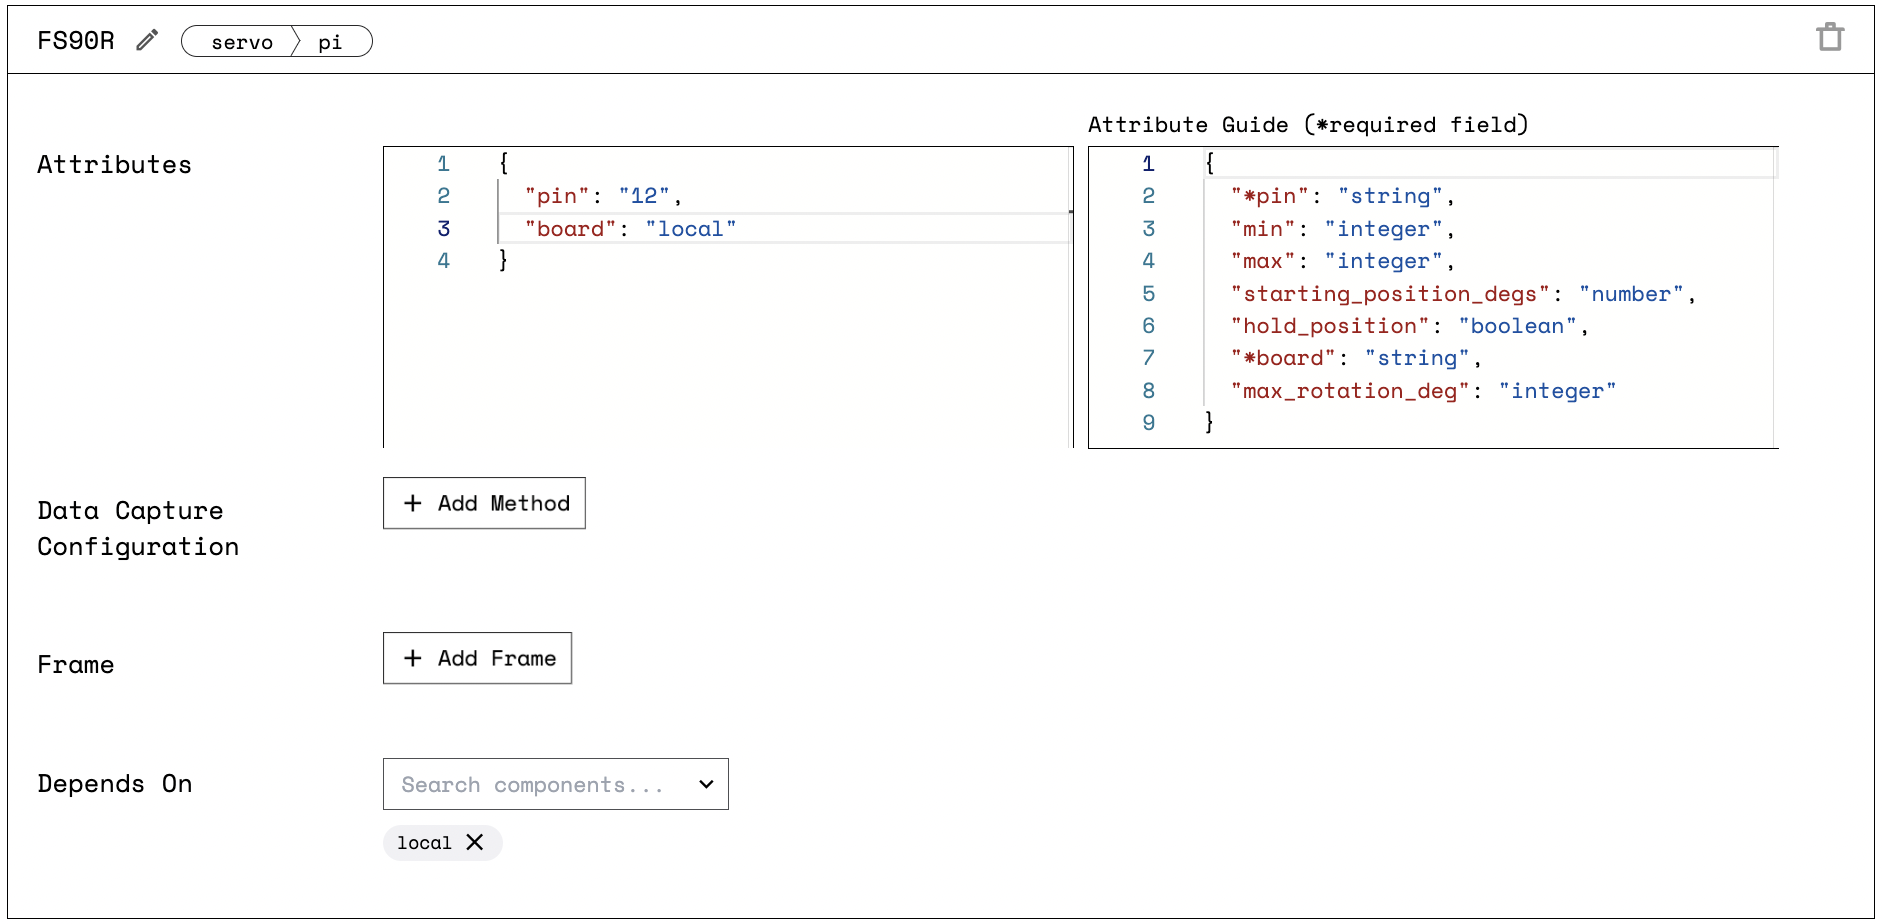
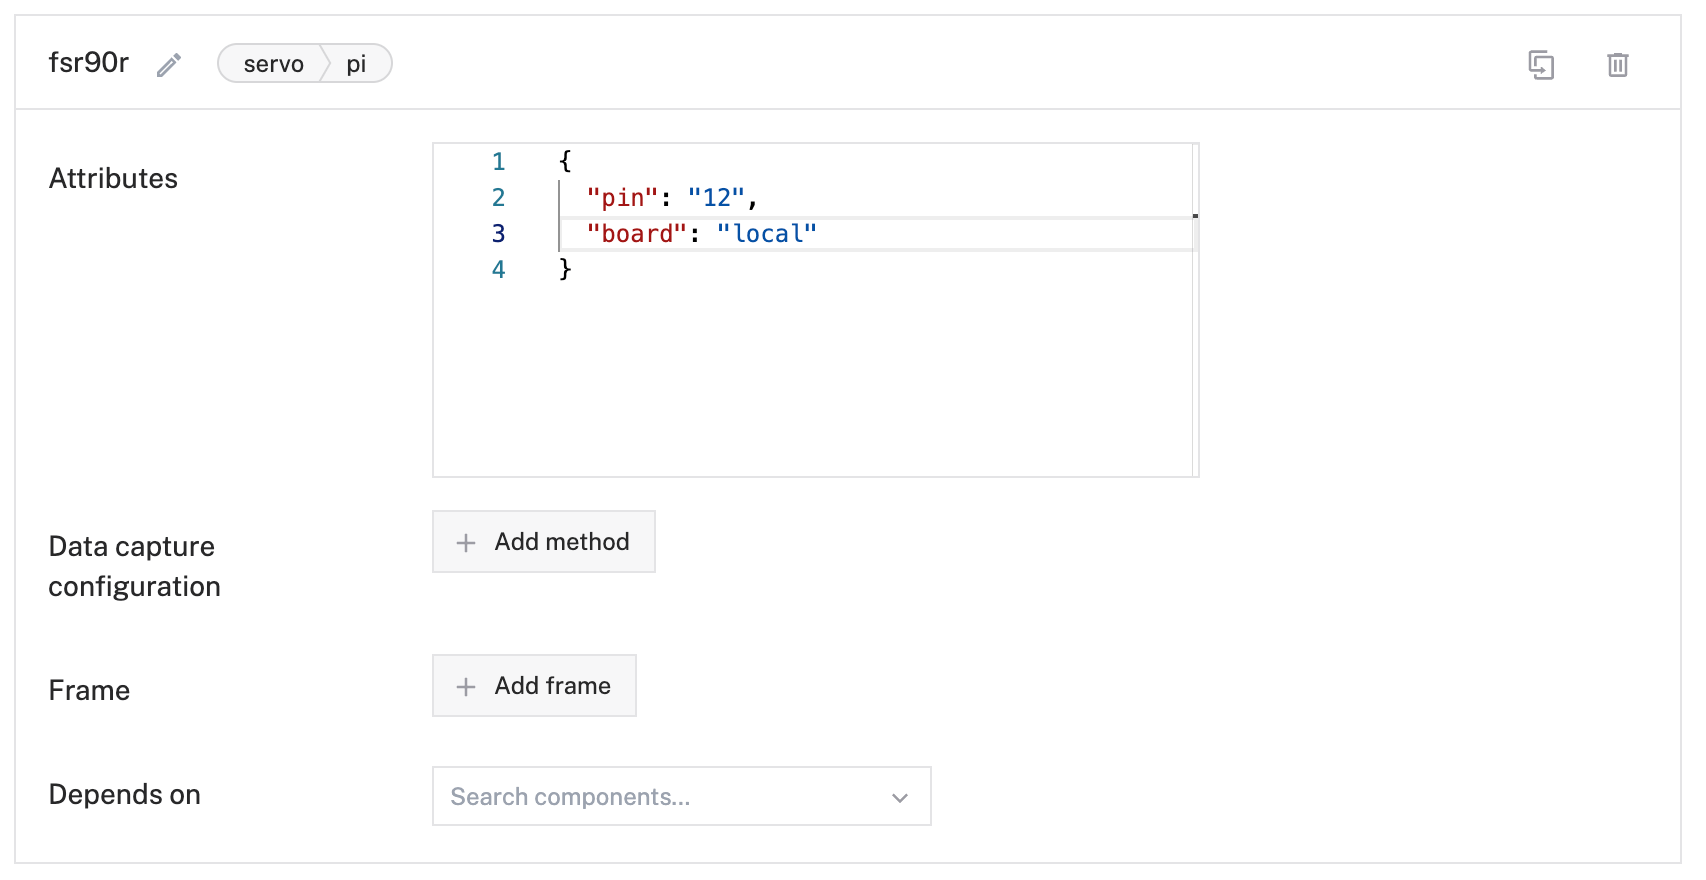
DOCS-1171: Update Try Viam color detection tute attributes

diff --git a/docs/tutorials/services/try-viam-color-detection.md b/docs/tutorials/services/try-viam-color-detection.md
@@ -132,14 +132,9 @@ To view output from the color detector overlaid on images from a physical camera
 
 {{<imgproc src="/tutorials/try-viam-color-detection/create-transform-camera.png" resize="500x" declaredimensions=true alt="The Viam app showing the Create Component panel populated with a camera component. The name is detectionCam, the type is camera, and the model is transform.">}}
 
-Viam generates an empty **Attributes** section for the detection camera's component panel.
-The panel's **Attribute Guide** section displays the available attributes for the selected component.
+Viam generates an **Attributes** section for the detection camera's component panel:
 
-{{% alert title="Tip" color="tip" %}}
-Attribute Guides always prefix required attributes with an asterisk.
-{{% /alert %}}
-
-![The Viam app showing the detectionCam component section. The Attributes section contains a skeleton configuration, including source, pipeline, type, and attributes. The Attributes Guide section lists the available camera component attributes. There are buttons labeled Data Capture Configuration, and Frame, and a drop-down labeled, Depends On. On the upper right there is a trash bin icon.](/tutorials/try-viam-color-detection/transform-camera-config.png)
+![The Viam app showing the detectionCam component section. The Attributes section contains a skeleton configuration, including source, pipeline, type, and attributes. On the upper right there is a trash bin icon.](/tutorials/try-viam-color-detection/transform-camera-config.png)
 
 Copy the following JSON configuration into the **Attributes** section:
 
@@ -158,16 +153,19 @@ Copy the following JSON configuration into the **Attributes** section:
 }
 ```
 
-<!-- prettier-ignore -->
-| Field | Default value | Description |
-| ----- | ------------- | ----------- |
-| `source` | `cam` | The name of the physical camera on the rover, which provides the visual feed to get detections from. |
-| `attributes` | | The attributes of this detectionCam. |
-| `attributes.detector_name` | `my_color_detector` | The name of this detectionCam. |
-| `attributes.confidence_threshold` | `0.3` (30%) | The percentage of confidence needed by the detection service to identify a color. |
-| `type` | `detections` | The type of the component. |
+Explanations of each attribute are as follows:
 
-![The Viam app showing the detectionCam component section. The Attributes section contains a skeleton configuration, including source, pipeline, type, and attributes. The Attributes Guide section lists the available camera component attributes. There are buttons labeled Data Capture Configuration, and Frame, and a drop-down labeled, Depends On. On the upper right there is a trash bin icon.](/tutorials/try-viam-color-detection/transform-camera-attributes.png)
+- `source`: The name of the physical camera on the rover, which provides the visual feed to get detections from.
+- `pipeline`: Contains the transformation objects to apply to the camera.
+- `attributes`: The attributes of this transform camera.
+  - `detector_name`: The name of the detector.
+  - `confidence_threshold`: The percentage of confidence needed by the detection service to identify a color.
+    Since we set it to `0.3`, this means that detections with less than 30% confidence won't be recognized.
+  - `type`: The type of transform camera.
+
+The filled-in transform camera configuration panel will look like this:
+
+![The Viam app showing the detectionCam component section. The Attributes section contains a skeleton configuration, including source, pipeline, type, and attributes. On the upper right there is a trash bin icon.](/tutorials/try-viam-color-detection/transform-camera-attributes.png)
 
 After adding the component and its attributes, click **Save config**.
 

diff --git a/docs/tutorials/get-started/servo-mousemover.md b/docs/tutorials/get-started/servo-mousemover.md
@@ -175,7 +175,7 @@ Click **Create component** in the lower-left corner.
 
 Select `servo` for type and `pi` for model.
 
-Enter `fsr90r` as the name for your servo, then click **Create**.
+Enter `fs90r` as the name for your servo, then click **Create**.
 
 After clicking **Create** you will see where you can put in attributes for the servo.
 This is where you tell Viam which hardware pin to use to control the servo.
@@ -185,7 +185,7 @@ This is where you tell Viam which hardware pin to use to control the servo.
 
 The attribute section will look like this:
 
-![This is a screenshot of the Viam app on the CONFIG page. This shows the options that populate when you create a servo with the pi Model. It shows attributes to fill out, with a JSON coding area next to it. "Pin" is filled in with "12" and "Board" is filled in with "local". Pin and board are required fields. To the right of this area is an "Attribute Guide" with optional attributes and required. Required attributes are denoted with a star before the word. To the left below the Attributes is Data Capture Configuration and to the right of this is a button that says Add Method. Below that and to the left it says Frame and to the right of Frame it has a button that says Add Frame. Below this and to the left it says Depends On and to the right of that it has a dropdown box. Below the dropdown box you can see I've chosen local, which has an x next to the word to delete it.](/tutorials/single-component-tutorials-servo-mousemover/servo-config.png)
+![This is a screenshot of the Viam app on the Config page. This shows the options that populate when you create a servo with the pi Model. It shows attributes to fill out, with a JSON coding area next to it. "Pin" is filled in with "12" and "Board" is filled in with "local". Pin and board are required fields.](/tutorials/single-component-tutorials-servo-mousemover/servo-config.png)
 
 Click the **Save Config** button.
 
